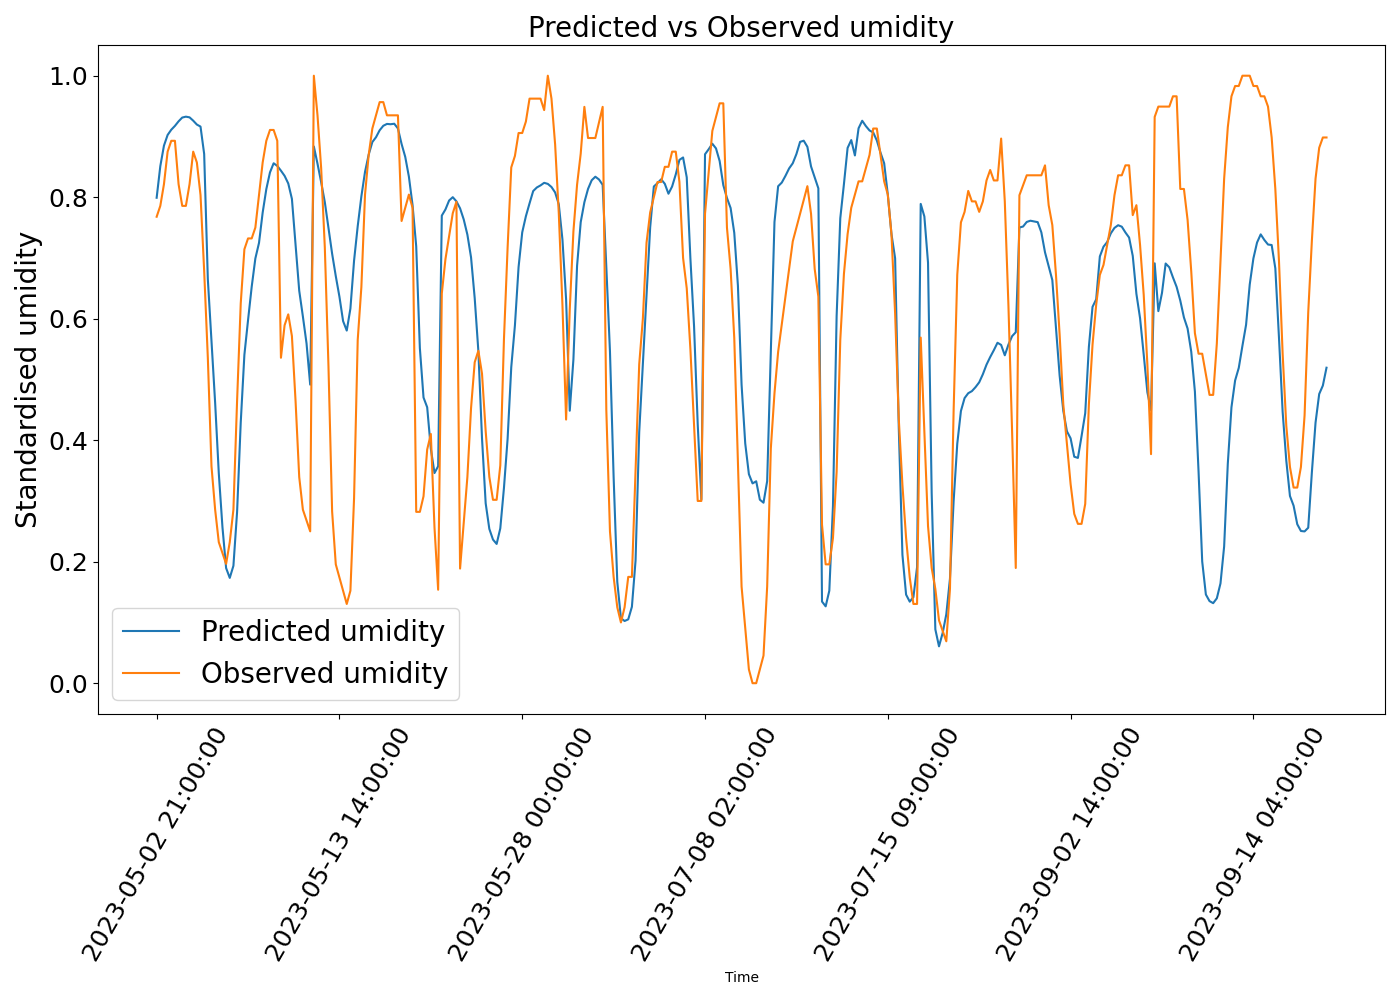
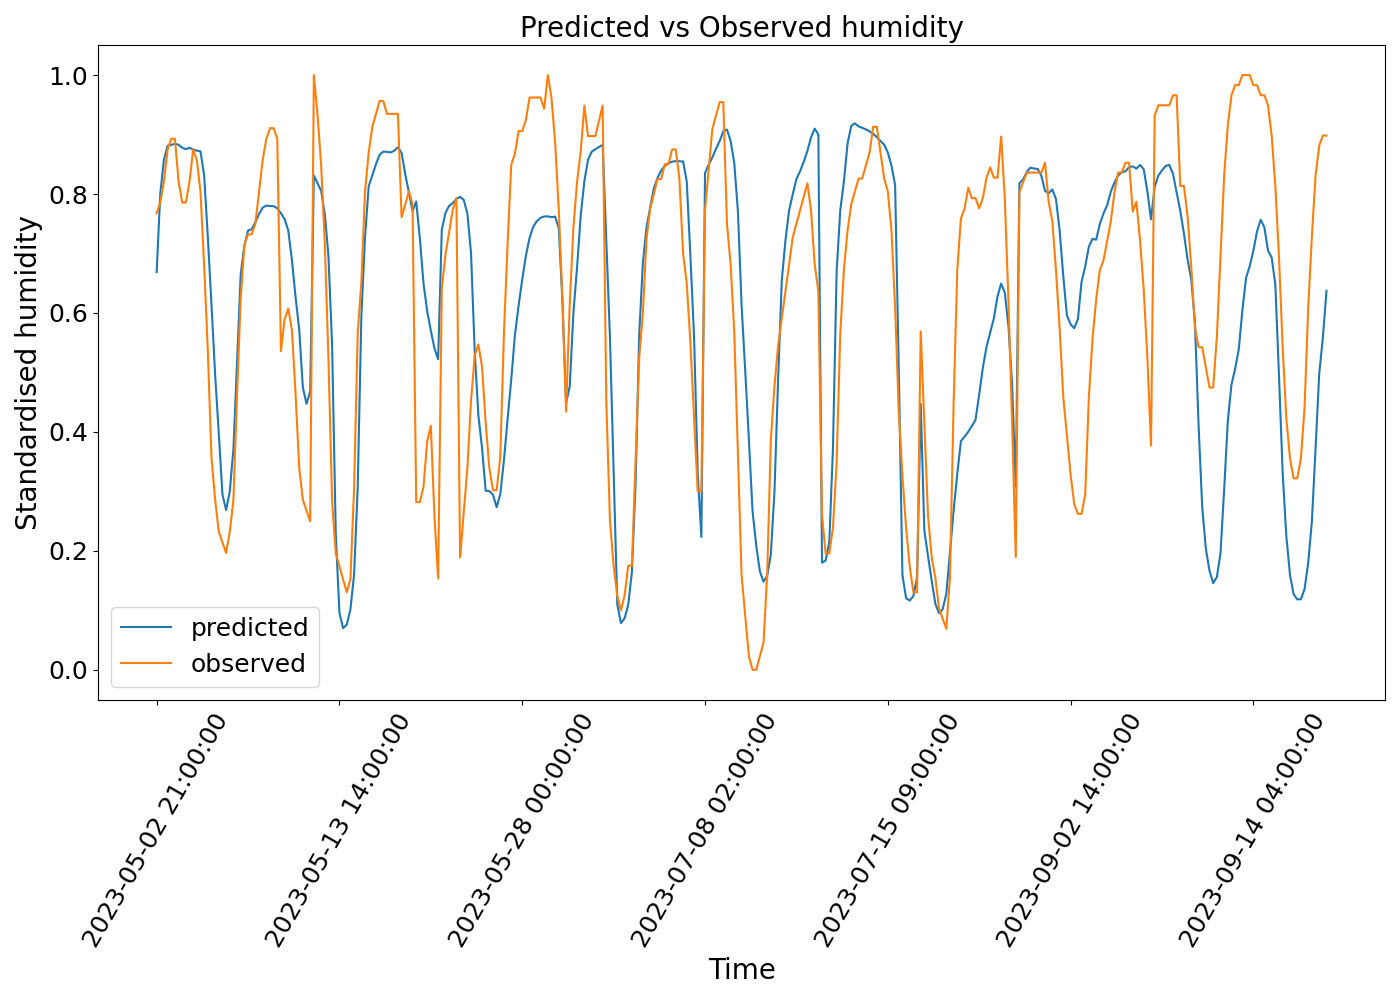
corrected graphs and code

diff --git a/main_bioml_test.py b/main_bioml_test.py
@@ -13,6 +13,8 @@ import glob, os
 import matplotlib
 import matplotlib.pyplot as plt
 from sklearn.metrics import mean_absolute_error
+from scipy.stats import pearsonr, spearmanr
+
 
 matplotlib.use('TkAgg')
 batch_size = 2 * 24 #* 60
@@ -130,8 +132,8 @@ meteo_data = meteo_data.set_index('datetime')
 meteo_data = meteo_data.drop(columns=['Data', 'Ora'])
 
 
-chosen_column = 'Umidità [ % ]'
-# chosen_column = 'Temperatura[ °C ]'
+# chosen_column = 'Umidità [ % ]'
+chosen_column = 'Temperatura[ °C ]'
 # chosen_column = 'Pluviometro[ mm ]'
 
 train_x, test_x, train_y, test_y, scalers_y, index_test_y = add_label(df_list, meteo_data, batch_size, chosen_column=chosen_column)
@@ -205,7 +207,7 @@ h['segment_id'] = (time_diffs > gap_threshold).cumsum().fillna(0).astype(int)
 
 # If needed, split into list of DataFrames:
 segments = [group for _, group in h.groupby('segment_id')]
-
+maes = []
 for i, values in enumerate(zip(segments, scalers_y)):
     segment, scaler = values
 
@@ -219,50 +221,68 @@ for i, values in enumerate(zip(segments, scalers_y)):
     mae_original = mean_absolute_error(segment["predicted"].values, segment["observed"])
     with open(f"/home/daltonik/Desktop/bioML_R1/bio-ml/images/{'temperature' if chosen_column == 'Temperatura[ °C ]' else 'umidity'}", 'a') as fw:
         fw.writelines(f"Group {i} from {segment.index[0].strftime('%d-%m-%Y')} to {segment.index[-1].strftime('%d-%m-%Y')} has MAE: {mae_original}\n")
-    width_px = 1400
-    height_px = 1000
-    dpi = 100  # dots per inch
-    figsize = (width_px / dpi, height_px / dpi)
-    segment.plot(figsize=figsize)
-    plt.xlabel("Time", fontsize=20)  # X-axis label
-    plt.ylabel(f"Standardised {'temperature' if chosen_column == 'Temperatura[ °C ]' else 'humidity'}",
-               fontsize=20)  # Y-axis label
-    plt.title(f"Predicted vs Observed {'temperature' if chosen_column == 'Temperatura[ °C ]' else 'humidity'}",
-              fontsize=20)
-    plt.xticks(fontsize=18, rotation=60)  # Increase x-axis tick label font
-    plt.yticks(fontsize=18)
-    plt.legend(fontsize=18)
-    plt.tight_layout()
-    plt.savefig(
-        f"/home/daltonik/Desktop/bioML_R1/bio-ml/images/predicted_{'temperature' if chosen_column == 'Temperatura[ °C ]' else 'umidity'}_{i}")
-    plt.close()
-# print(f"MSE in original scale: {mse_original:.4f}")
-# # Step 3: Convert index to datetime and sort both DataFrames
+    maes.append(mae_original)
+    # width_px = 1400
+    # height_px = 1000
+    # dpi = 100  # dots per inch
+    # figsize = (width_px / dpi, height_px / dpi)
+    # segment.plot(figsize=figsize)
+    # plt.xlabel("Time", fontsize=20)  # X-axis label
+    # plt.ylabel(f"Standardised {'temperature' if chosen_column == 'Temperatura[ °C ]' else 'humidity'}",
+    #            fontsize=20)  # Y-axis label
+    # plt.title(f"Predicted vs Observed {'temperature' if chosen_column == 'Temperatura[ °C ]' else 'humidity'}",
+    #           fontsize=20)
+    # plt.xticks(fontsize=18, rotation=60)  # Increase x-axis tick label font
+    # plt.yticks(fontsize=18)
+    # plt.legend(fontsize=18)
+    # plt.tight_layout()
+    # plt.savefig(
+    #     f"/home/daltonik/Desktop/bioML_R1/bio-ml/images/predicted_{'temperature' if chosen_column == 'Temperatura[ °C ]' else 'umidity'}_{i}")
+    # plt.close()
+
+pearson_corr, p_value_pearson = pearsonr(h['observed'], h['predicted'])
+# Spearman
+spearman_corr, p_value_spearman = spearmanr(h['observed'], h['predicted'])
+print(f"Pearson: {pearson_corr}, Spearman: {spearman_corr}")
+print(f"Pearson p-value: {p_value_pearson:.2f}, Spearman p-value: {p_value_spearman:.2f}")
+
+print(f"Average MAE in original scale: {sum(maes)/len(maes)}")
+with open(
+        f"/home/daltonik/Desktop/bioML_R1/bio-ml/images/{'temperature' if chosen_column == 'Temperatura[ °C ]' else 'umidity'}",
+        'a') as fw:
+    fw.writelines(f"Average total MAE: {sum(maes)/len(maes)} \n"
+                  f"Pearson coefficient: {pearson_corr:.2f}, Spearman coefficient: {spearman_corr:.2f}"
+                  f"Pearson p-value: {p_value_pearson:.2f}, Spearman p-value: {p_value_spearman:.2f}"
+                  )
+
+
+# Step 3: Convert index to datetime and sort both DataFrames
 # yhat.index = pd.to_datetime(yhat.index)
 # y_obs.index = pd.to_datetime(y_obs.index)
 # yhat.sort_index(inplace=True)
 # y_obs.sort_index(inplace=True)
-#
-# # Step 4: Convert index to string after sorting
-# yhat.index = yhat.index.astype(str)
+
+# Step 4: Convert index to string after sorting
+h.index = h.index.astype(str)
 # y_obs.index = y_obs.index.astype(str)
-#
-# # Step 5: Concatenate the two DataFrames
+
+# Step 5: Concatenate the two DataFrames
 # h = pd.concat([yhat, y_obs], axis=1, ignore_index=True)
 # h.columns = [f"Predicted {'temperature' if chosen_column == 'Temperatura[ °C ]'  else 'humidity'}",
-#              f"Observed {'temperature' if chosen_column == 'Temperatura[ °C ]'  else 'umidity'}"]
-#
-# width_px = 1400
-# height_px = 1000
-# dpi = 100  # dots per inch
-# figsize = (width_px / dpi, height_px / dpi)
-# h.plot(figsize=figsize)
-# plt.xlabel("Time", fontsize=20)  # X-axis label
-# plt.ylabel(f"Standardised {'temperature' if chosen_column == 'Temperatura[ °C ]'  else 'humidity'}", fontsize=20)  # Y-axis label
-# plt.title(f"Predicted vs Observed {'temperature' if chosen_column == 'Temperatura[ °C ]'  else 'humidity'}", fontsize=20)
-# plt.xticks(fontsize=18, rotation=60)  # Increase x-axis tick label font
-# plt.yticks(fontsize=18)
-# plt.legend(fontsize=18)
-# plt.tight_layout()
-# plt.savefig(f"/home/daltonik/Desktop/bioML_R1/bio-ml/images/predicted_{'temperature' if chosen_column == 'Temperatura[ °C ]'  else 'umidity'}")
+#              f"Observed {'temperature' if chosen_column == 'Temperatura[ °C ]'  else 'humidity'}"]
+
+width_px = 1400
+height_px = 1000
+dpi = 100  # dots per inch
+figsize = (width_px / dpi, height_px / dpi)
+h.drop("segment_id", axis=1, inplace=True)
+h.plot(figsize=figsize)
+plt.xlabel("Time", fontsize=20)  # X-axis label
+plt.ylabel(f"Standardised {'temperature' if chosen_column == 'Temperatura[ °C ]'  else 'humidity'}", fontsize=20)  # Y-axis label
+plt.title(f"Predicted vs Observed {'temperature' if chosen_column == 'Temperatura[ °C ]'  else 'humidity'}", fontsize=20)
+plt.xticks(fontsize=18, rotation=60)  # Increase x-axis tick label font
+plt.yticks(fontsize=18)
+plt.legend(fontsize=18)
+plt.tight_layout()
+plt.savefig(f"/home/daltonik/Desktop/bioML_R1/bio-ml/images/predicted_{'temperature' if chosen_column == 'Temperatura[ °C ]'  else 'umidity'}")
 model.save(f'bioml_{batch_size}_{chosen_column[:6]}')
